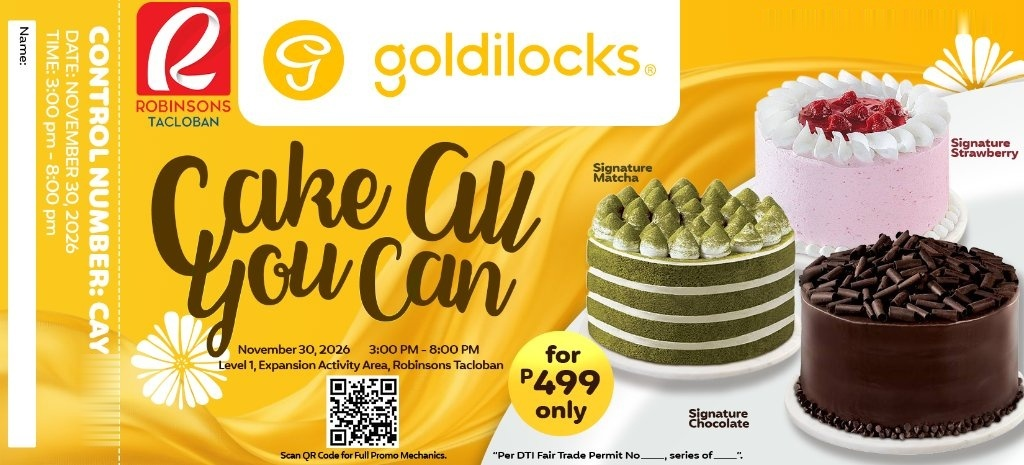
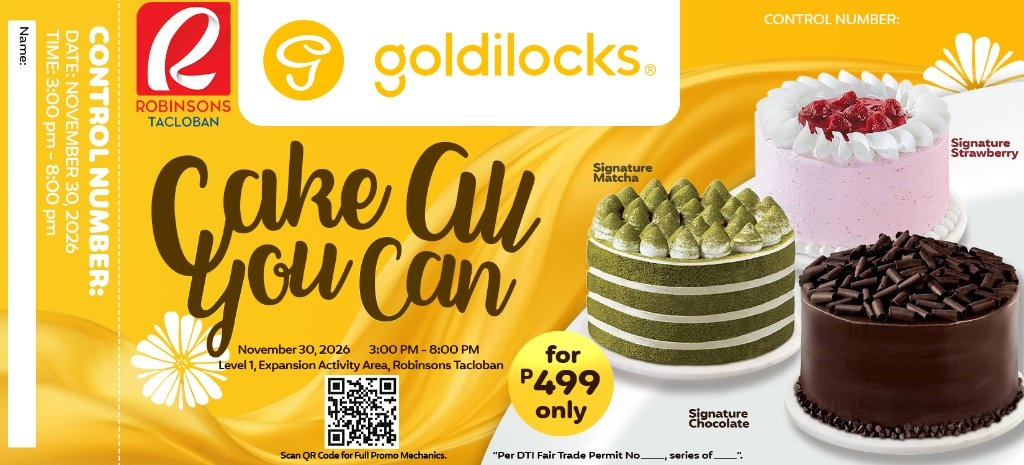
Update to latest official e-coupon template with precise text alignment

diff --git a/scripts/generate_coupon_image.py b/scripts/generate_coupon_image.py
@@ -34,30 +34,32 @@ def generate_coupon(guest_name, control_no, output_path):
             return ImageFont.load_default()
 
     font_tr = load_font(24)
-    font_stub = load_font(28)
+    font_stub = load_font(24)
     font_name = load_font(24)
 
-    # 1. Overlay Top-Right Control Number (Native, smooth, transparent with subtle depth shadow)
-    draw.text((1971, 31), f'CONTROL NUMBER: {control_no}', font=font_tr, fill=(180, 100, 0), anchor='ra')
-    draw.text((1970, 30), f'CONTROL NUMBER: {control_no}', font=font_tr, fill=(255, 255, 255), anchor='ra')
+    # 1. Overlay Top-Right Control Number (Smoothly placed right after pre-printed 'CONTROL NUMBER:')
+    # 'CONTROL NUMBER:' in template ends at x ~ 1798.
+    ctrl_str = str(control_no).strip()
+    draw.text((1806, 27), ctrl_str, font=font_tr, fill=(180, 100, 0))
+    draw.text((1805, 26), ctrl_str, font=font_tr, fill=(255, 255, 255))
 
-    # 2. Overlay Cuttable Stub Control Number (Matches Top-Right Control Number!)
-    # Positioned right under CONTROL NUMBER: without overlapping or clipping at bottom
-    stub_txt_layer = Image.new('RGBA', (180, 44), (255, 255, 255, 0))
+    # 2. Overlay Cuttable Stub Control Number (Placed right under vertical 'CONTROL NUMBER:' with zero overlap)
+    # Pre-printed colon ends at y = 749. Space extends down to y = 920.
+    stub_txt_layer = Image.new('RGBA', (150, 36), (255, 255, 255, 0))
     d_stub = ImageDraw.Draw(stub_txt_layer)
-    d_stub.text((3, 3), str(control_no), font=font_stub, fill=(160, 100, 0, 180))
-    d_stub.text((2, 2), str(control_no), font=font_stub, fill=(255, 255, 255, 255))
+    d_stub.text((2, 2), ctrl_str, font=font_stub, fill=(160, 100, 0, 180))
+    d_stub.text((1, 1), ctrl_str, font=font_stub, fill=(255, 255, 255, 255))
     rot_stub = stub_txt_layer.rotate(270, expand=True)
-    canvas.paste(rot_stub, (178, 718), rot_stub)
+    canvas.paste(rot_stub, (176, 756), rot_stub)
 
-    # 3. Overlay Guest Name inside white vertical strip on stub
-    # Strip is x: 20..68 (center ~44), y: 144..888
-    clean_name = (guest_name or 'GUEST').upper()
-    txt_layer = Image.new('RGBA', (720, 48), (255, 255, 255, 0))
+    # 3. Overlay Guest Name inside white vertical strip on stub (Dead-center inside white box)
+    # White box is x: 17..107 (center ~62), y: 135..890
+    clean_name = (guest_name or 'GUEST').upper().strip()
+    txt_layer = Image.new('RGBA', (700, 40), (255, 255, 255, 0))
     d_txt = ImageDraw.Draw(txt_layer)
-    d_txt.text((10, 8), clean_name, font=font_name, fill=(59, 31, 0))
+    d_txt.text((8, 4), clean_name, font=font_name, fill=(59, 31, 0))
     rot_txt = txt_layer.rotate(270, expand=True)
-    canvas.paste(rot_txt, (22, 148), rot_txt)
+    canvas.paste(rot_txt, (42, 142), rot_txt)
 
     # Ensure parent dir exists
     os.makedirs(os.path.dirname(os.path.abspath(output_path)), exist_ok=True)
